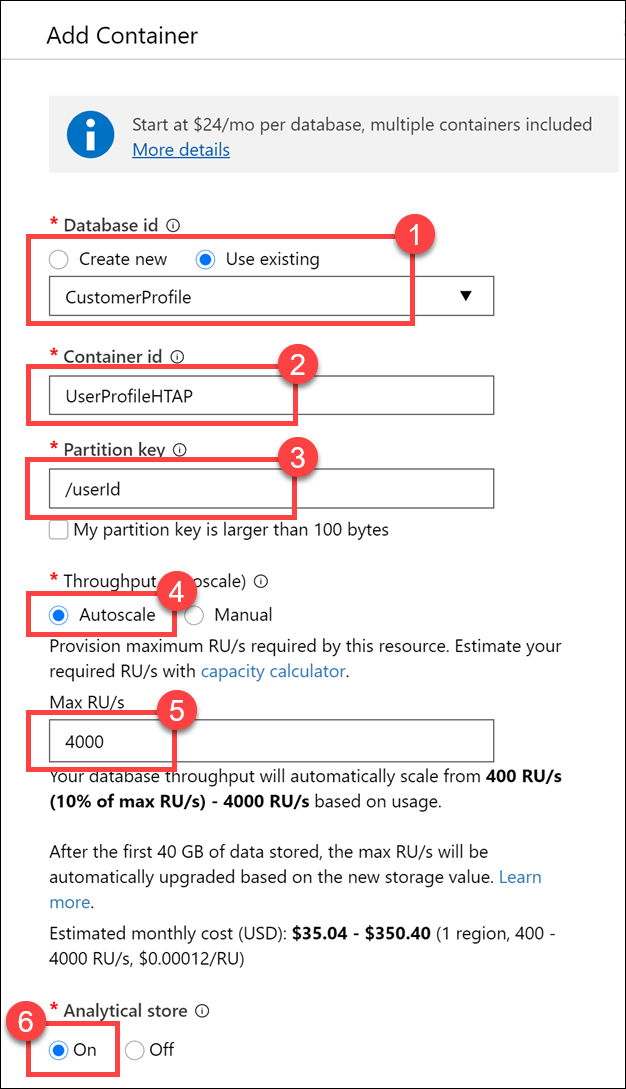
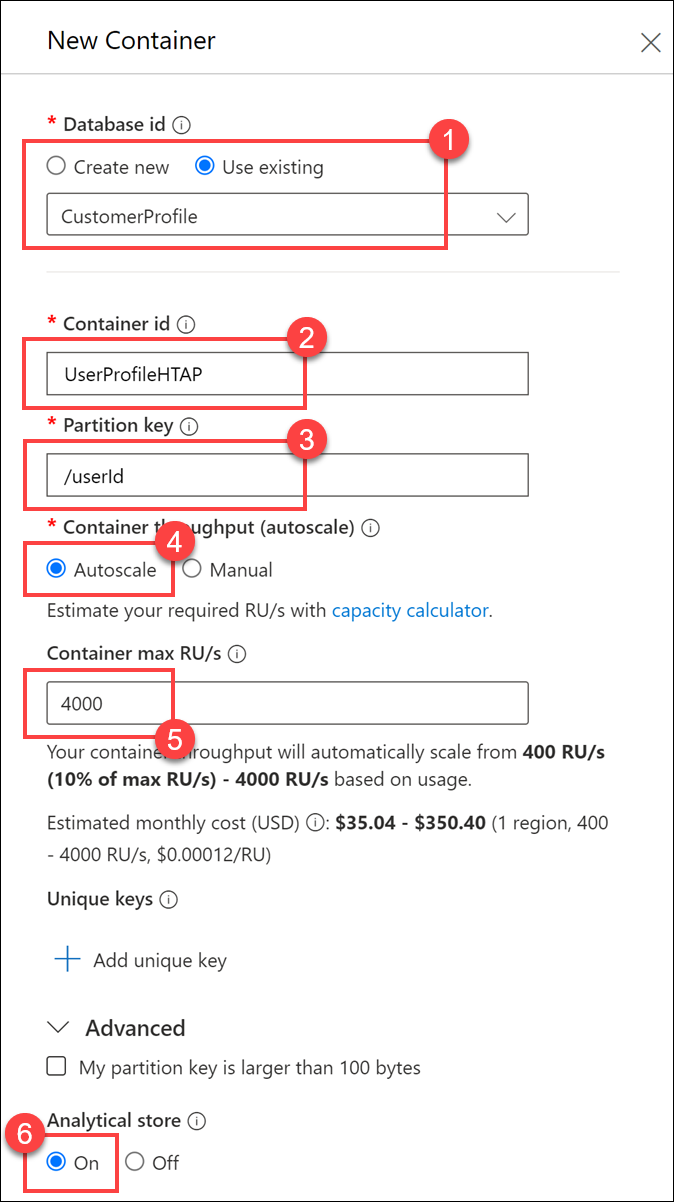
Updated image & instructions due to UI changes; Closes #76

diff --git a/Instructions/Labs/12/README.md b/Instructions/Labs/12/README.md
@@ -158,7 +158,7 @@ After creating the container, we will create a new Synapse Pipeline to copy data
 
     ![The button is highlighted.](media/new-container-button.png "New Container")
 
-3. For **Database id**, select **Use existing**, then select **`CustomerProfile` (1)**. Enter **`UserProfileHTAP`** for the **Container id (2)**, then enter **`/userId`** for the **Partition key (3)**. For **Throughput**, select **Autoscale (4)**, then enter **`4000`** for the **Max RU/s** value **(5)**. Finally, set **Analytical store** to **On (6)**, then select **OK**.
+3. For **Database id**, select **Use existing**, then select **`CustomerProfile` (1)**. Enter **`UserProfileHTAP`** for the **Container id (2)**, then enter **`/userId`** for the **Partition key (3)**. For **Throughput**, select **Autoscale (4)**, then enter **`4000`** for the **Max RU/s** value **(5)**. Finally, expand Advanced and set **Analytical store** to **On (6)**, then select **OK**.
 
     ![The form is configured as described.](media/new-container.png "New container")
 
